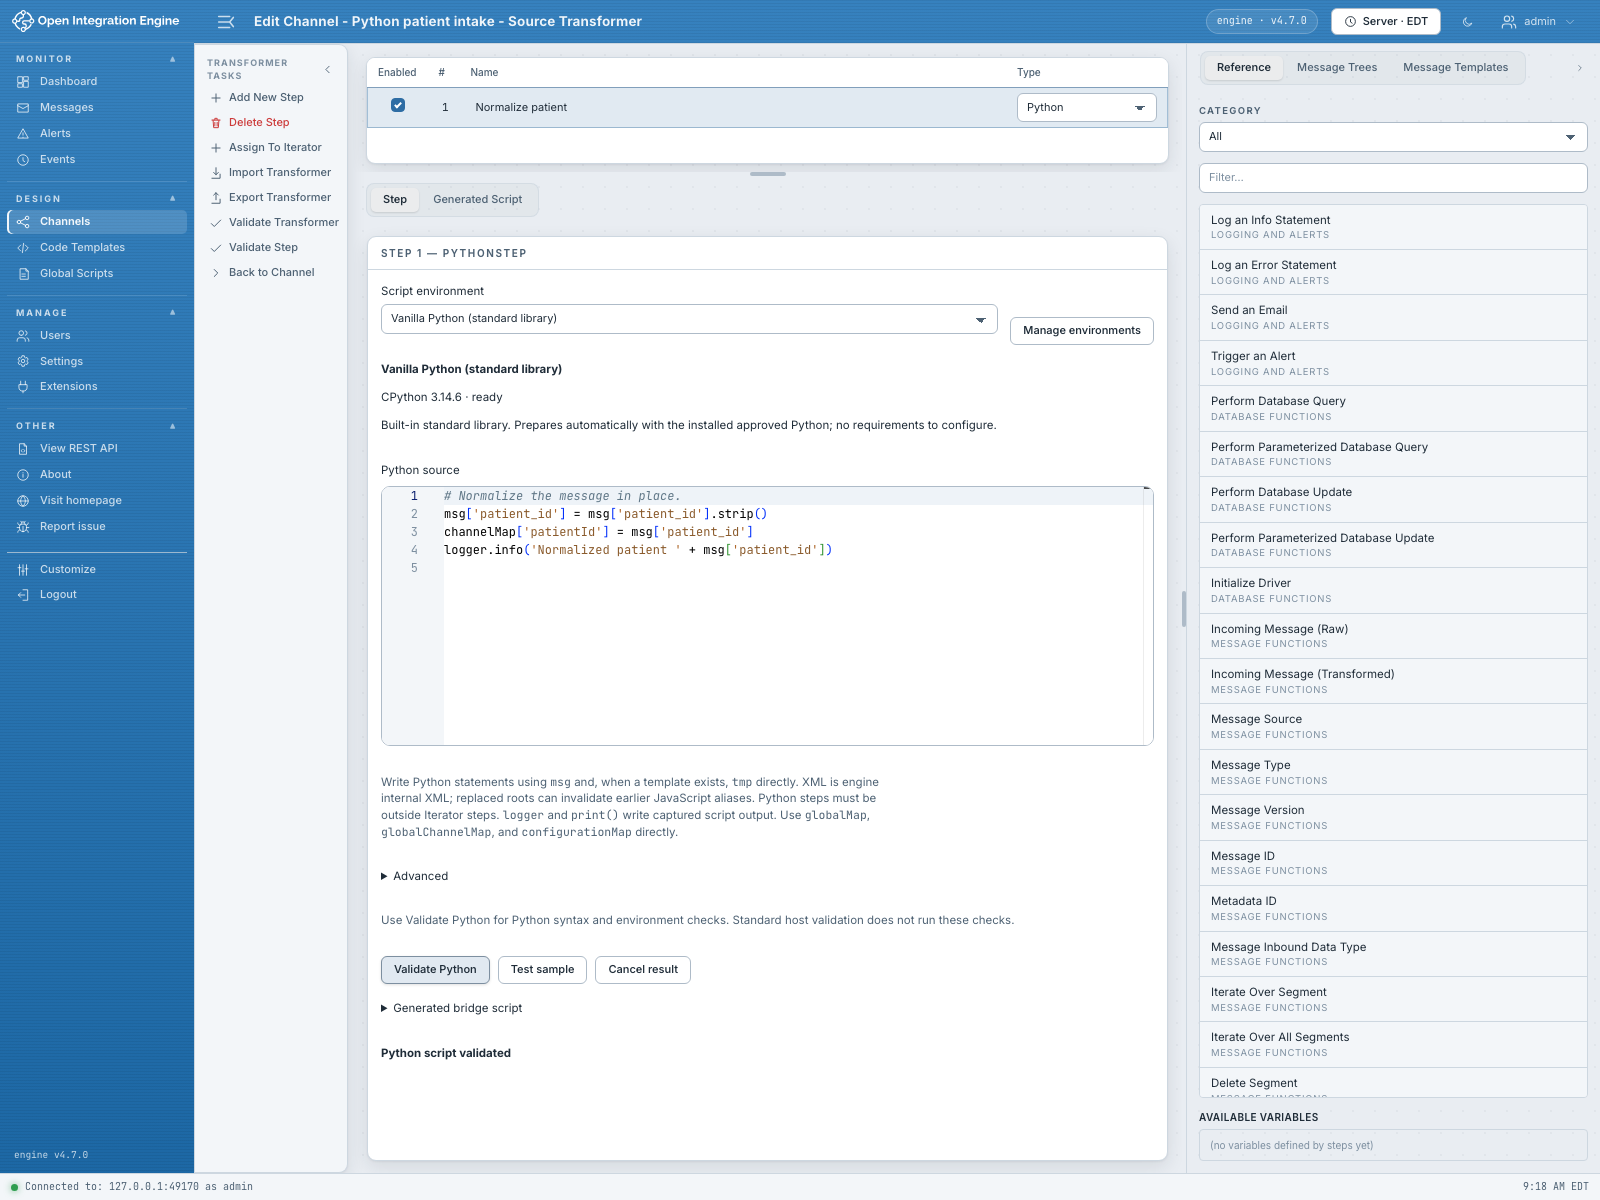
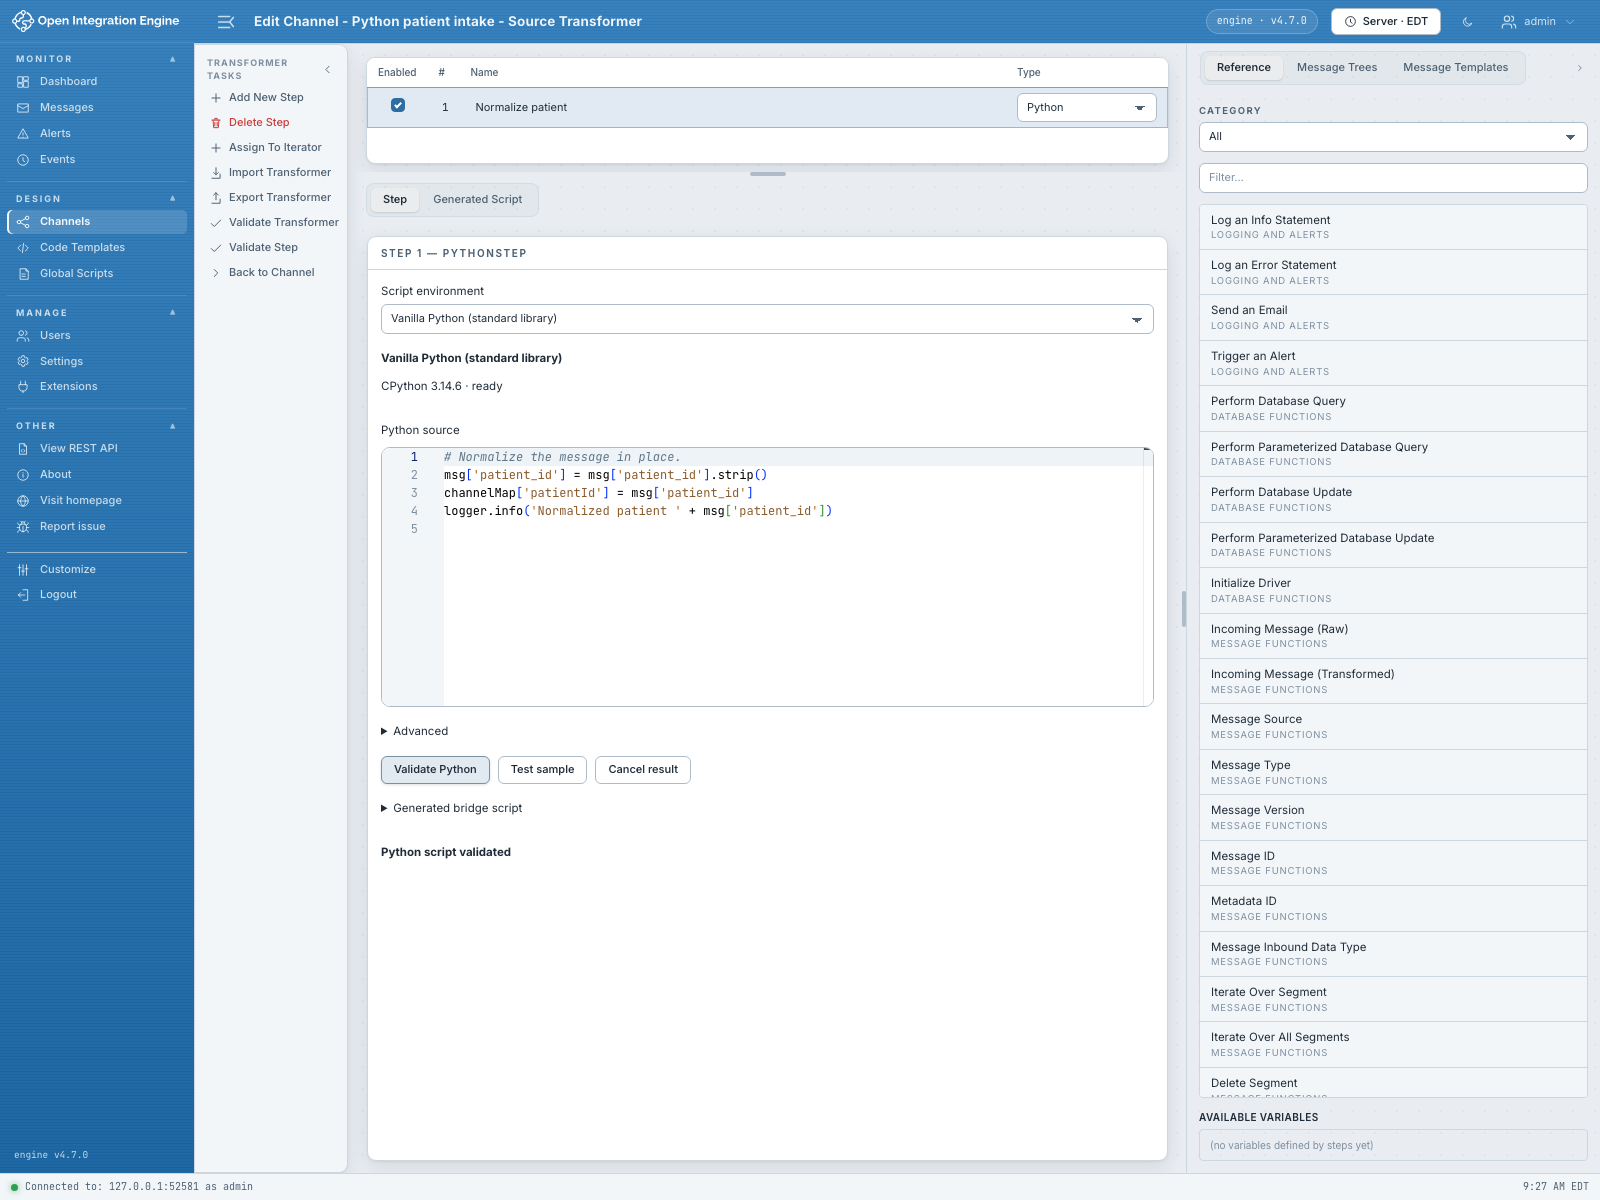
fix: simplify Python editors and keep management in settings

diff --git a/package/webadmin/web/plugin.jsx b/package/webadmin/web/plugin.jsx
@@ -82,29 +82,12 @@ function ScriptPanel({ element, properties, onChange, role: explicitRole, channe
         if(test){pendingTest.current=false;setTestBusy(false);}if(action.isCurrent()&&currentSession())setResult(value);
     }
     return <div ref={panel} className="flex flex-col gap-4">
-        <div className="flex flex-wrap items-end gap-3"><label className="field" style={{flex:"1 1 220px",minWidth:0}}>Script environment<select style={{width:"100%",minWidth:0}} value={subject.environmentProfileId||''} disabled={!profiles} onChange={e=>{subject.environmentNameHint=profiles.profiles.find(p=>p.id===e.target.value)?.name||'';change('environmentProfileId',e.target.value);}}><option value="">{profiles?'Select a script environment':'Loading environments…'}</option>{subject.environmentProfileId&&!selected&&<option value={subject.environmentProfileId}>Unresolved: {subject.environmentNameHint||subject.environmentProfileId}</option>}{profiles?.profiles.filter(p=>!p.archived&&(p.id!==DEFAULT_PROFILE_ID||p===selectedEnvironment({environmentProfileId:DEFAULT_PROFILE_ID},profiles))).map(p=><option key={p.id} value={p.id}>{p.name}</option>)}</select></label><button type="button" className="btn" onClick={()=>{platform.store.setState('pythonReturnPath',path);platform.router.navigate('/settings?tab=Script%20Environments');}}>Manage environments</button></div>
-        {error&&<p role="alert">{error} Your script draft is preserved.</p>}{selected&&<div><strong>{selected.name}</strong><p>{stateLabel(selected)}{selected.readiness?.message?`: ${selected.readiness.message}`:''}</p>{selected.builtInDefault?<p>Built-in standard library. Prepares automatically with the installed approved Python; no requirements to configure.</p>:<p>{selected.description}</p>}{selected.redeployNeeded&&<p>Redeploy consuming channels to activate this environment revision.</p>}</div>}
+        <div className="flex flex-wrap items-end gap-3"><label className="field" style={{flex:"1 1 220px",minWidth:0}}>Script environment<select style={{width:"100%",minWidth:0}} value={subject.environmentProfileId||''} disabled={!profiles} onChange={e=>{subject.environmentNameHint=profiles.profiles.find(p=>p.id===e.target.value)?.name||'';change('environmentProfileId',e.target.value);}}><option value="">{profiles?'Select a script environment':'Loading environments…'}</option>{subject.environmentProfileId&&!selected&&<option value={subject.environmentProfileId}>Unresolved: {subject.environmentNameHint||subject.environmentProfileId}</option>}{profiles?.profiles.filter(p=>!p.archived&&(p.id!==DEFAULT_PROFILE_ID||p===selectedEnvironment({environmentProfileId:DEFAULT_PROFILE_ID},profiles))).map(p=><option key={p.id} value={p.id}>{p.name}</option>)}</select></label></div>
+        {error&&<p role="alert">{error} Your script draft is preserved.</p>}{selected&&<div><strong>{selected.name}</strong><p>{stateLabel(selected)}{selected.readiness?.message?`: ${selected.readiness.message}`:''}</p>{selected.redeployNeeded&&<p>Redeploy consuming channels to activate this environment revision.</p>}</div>}
         {subject.environmentProfileId&&!selected&&profiles&&<p role="alert">{subject.environmentProfileId===DEFAULT_PROFILE_ID?(profiles.defaultProfileMessage||'The built-in Python environment is unavailable on this engine. Open Script Environments for details.'):'This environment is unresolved. Restore its profile or select another before deploying.'}</p>}
         {isStep&&!inferred.role&&!isRule&&<div className="flex flex-wrap gap-3"><label className="field">Validation role<select aria-label="Validation role" value={role} onChange={e=>{generation.current.invalidate();setChosenRole(e.target.value);setResult(null);}}><option value="">Select where this step runs</option><option value="source-transformer">Source transformer</option><option value="destination-transformer">Destination transformer</option><option value="response-transformer">Response transformer</option></select></label>{role&&role!=='source-transformer'&&role!=='source-filter'&&<label className="field">Validation connector<select aria-label="Validation connector" value={chosenConnector} onChange={e=>{generation.current.invalidate();setChosenConnector(e.target.value);setResult(null);}}><option value="">Select a destination</option>{destinations.map(v=><option key={v.metaDataId} value={v.metaDataId}>{v.name||`Destination ${v.metaDataId}`}</option>)}</select></label>}</div>}
         <PythonEditor value={subject.pythonScript||''} onChange={v=>change('pythonScript',v)} role={role} channelId={activeChannel?.id} profile={selected} catalog={profiles}/>
-        <p className="text-text-dim" style={{maxWidth:"72ch"}}>
-            {isRule ? <>Return exactly <code>True</code> or <code>False</code>; falling through accepts the message. Bare <code>return</code> and <code>return None</code> are invalid. Use <code>not</code> to negate a predicate. Stock AND/OR order and short circuit apply. Documents and maps match transformer steps. Python rules must be outside Iterator rules.</> : isStep ? <>
-                Write Python statements using <code>msg</code> and, when a template exists, <code>tmp</code> directly.
-                {' '}XML is engine internal XML; replaced roots can invalidate earlier JavaScript aliases.
-                {' '}Python steps must be outside Iterator steps.
-            </> : role==='writer' ? <>
-                Use <code>payload</code> directly and return None, a string, a Status, or a Response.
-                {' '}Engine retries apply. Use target-supported idempotency for external writes.
-            </> : <>
-                Use writable <code>sourceMap</code> for invocation metadata, including <code>sourceMap.get('pollId')</code>, and return None, a Message, or a list of Message objects.
-                {' '}Its entries become defaults for every returned message; <code>Message.source_map</code> entries override them per message.
-                {' '}External acknowledgments are the script’s responsibility.
-            </>}
-            {' '}<code>logger</code> and <code>print()</code> write captured script output.
-            {' '}Use <code>globalMap</code>, <code>globalChannelMap</code>, and <code>configurationMap</code> directly.
-        </p>
         <details><summary>Advanced</summary><label className="field mt-3">Invocation timeout (milliseconds)<input type="number" min="100" step="1" value={subject.timeoutMillis} onChange={e=>change('timeoutMillis',Number(e.target.value))}/></label></details>
-        <p className="text-text-dim">Use Validate Python for Python syntax and environment checks. Standard host validation does not run these checks.</p>
         <div className="flex flex-wrap gap-2"><button type="button" className="btn" disabled={!can(permissions.validate)} onClick={()=>run(false)}>Validate Python</button><button type="button" className="btn" disabled={!can(permissions.test)} onClick={()=>setShowTest(!showTest)}>Test sample</button><button type="button" className="btn" onClick={()=>{generation.current.invalidate();setResult({status:'cancelled',diagnostics:[{message:'Result cancelled. External work may still complete.'}]});}}>Cancel result</button></div>
         {showTest&&<div><label className="field">Synthetic sample context (JSON)<textarea className="font-mono" rows="8" value={sample} onChange={e=>{generation.current.invalidate();setSample(e.target.value);setResult(null);}}/></label><p>{isStep?'Transformer tests require message data in this JSON context.':'Leave empty to send an empty context.'} Test can perform external I/O. It does not admit engine messages or modify live maps.</p><button type="button" className="btn" disabled={!can(permissions.test)||testBusy} onClick={()=>run(true)}>Run sample once</button></div>}
         {isStep&&<details><summary>Generated bridge script</summary><OutputPanel label="Generated bridge script">{generateScript(subject)}</OutputPanel></details>}
@@ -160,7 +143,7 @@ function EnvironmentSettings({setSave,markDirty,markClean,setTasks}) {
     async function exportFile(){if(!can(permissions.export))return;const current=capture();try{const v=await request(guardApi(api,current),'get','/profiles/export');if(current())platform.ui.downloadFile('python-environments.json',JSON.stringify(v,null,2),'application/json');}catch(e){if(current())setError(errorText(e));}}
     const editable=ready&&!!runtime&&!busy&&!draft?.builtInDefault&&can(draft?.id?permissions.manage:permissions.create);const p=draft;
     return <div className="flex flex-col gap-4"><div><h2 className="text-lg font-semibold">Script Environments</h2><p className="text-text-dim" style={{maxWidth:"72ch"}}>The built-in standard library prepares automatically. Add an environment when a script needs extra packages. Saving or preparing a profile leaves active deployments on their current environment until redeployment. Exports contain custom environments; the built-in default is supplied by each installation.</p></div>{error&&<p role="alert" className="whitespace-pre-wrap">{error}</p>}{list?.defaultProfileMessage&&<p role="alert">{list.defaultProfileMessage}</p>}
-        <div className="flex flex-wrap gap-2"><button type="button" className="btn" disabled={!ready||!runtime||busy||!can(permissions.create)} onClick={()=>choose(newEnvironment(runtime,list.registryEpoch))}>Add environment</button><button type="button" className="btn" disabled={busy||dirty.current} onClick={load}>Refresh list</button><button type="button" className="btn" disabled={busy||!list||!can(permissions.import)} onClick={importFile}>Import</button><button type="button" className="btn" disabled={!list||!can(permissions.export)} onClick={exportFile}>Export</button>{platform.store.getState('pythonReturnPath')&&<button type="button" className="btn" onClick={()=>platform.router.navigate(platform.store.getState('pythonReturnPath'))}>Back to channel editor</button>}</div>
+        <div className="flex flex-wrap gap-2"><button type="button" className="btn" disabled={!ready||!runtime||busy||!can(permissions.create)} onClick={()=>choose(newEnvironment(runtime,list.registryEpoch))}>Add environment</button><button type="button" className="btn" disabled={busy||dirty.current} onClick={load}>Refresh list</button><button type="button" className="btn" disabled={busy||!list||!can(permissions.import)} onClick={importFile}>Import</button><button type="button" className="btn" disabled={!list||!can(permissions.export)} onClick={exportFile}>Export</button></div>
         {!list?<p role="status">Loading script environments…</p>:<div className="flex flex-wrap gap-6 items-start"><div style={{flex:"1 1 280px",minWidth:0,width:"100%"}}><div className="dt-wrap"><table className="dt"><thead><tr><th>Name</th><th>Runtime</th><th>Preparation</th><th>Usage</th></tr></thead><tbody>{list.profiles.filter(v=>!v.archived).map(v=><tr key={v.id}><td><button type="button" className="btn" onClick={()=>choose(v)}>{v.name}{v.builtInDefault?' · Built-in':''}</button></td><td>{runtime?.runtimes.find(r=>r.id===v.runtimeId)?runtimeLabel(runtime.runtimes.find(r=>r.id===v.runtimeId)):v.runtimeId}</td><td>{stateLabel(v)}</td><td>{v.savedReferenceCount} saved · {v.deployedReferenceCount} deployed</td></tr>)}</tbody></table></div>{!list.profiles.length&&<p>Add an environment and select an approved interpreter. Leave requirements empty to use Python’s standard library.</p>}</div>
             {p&&<div className="flex flex-col gap-3" style={{flex:"1 1 300px",minWidth:0,width:"100%"}}>
                 <label className="field">Name<input value={p.name||''} disabled={!editable} onChange={e=>change('name',e.target.value)}/></label>

diff --git a/package/webadmin/web/code-template-panel.jsx b/package/webadmin/web/code-template-panel.jsx
@@ -94,27 +94,18 @@ function TemplatePanel({ template, properties, onChange, readOnly }) {
             </div>
             <div className="flex flex-wrap items-center gap-2">
                 <button type="button" className="btn" onClick={() => setRefresh(value => value + 1)}>Refresh environments</button>
-                <button type="button" className="btn" onClick={() => { platform.store.setState('pythonReturnPath', platform.router.currentPath()); platform.router.navigate('/settings?tab=Script%20Environments'); }}>Manage environments</button>
             </div>
         </fieldset>
         {error && <p role="alert">{error} Your function draft is preserved.</p>}
         {selected && <p className="text-text-dim">{selected.name} · {environmentState(selected)}{selected.readiness?.message ? `: ${selected.readiness.message}` : ''}</p>}
         {profiles && properties.environmentProfileId && !selected && <p role="alert">This script environment is unavailable. Select an available environment before deploying.</p>}
         <PythonEditor value={properties.pythonScript || ''} onChange={value => change('pythonScript', value)} readOnly={readOnly} role="code-template" profile={selected} catalog={profiles}/>
-        <p className="text-text-dim" style={{ maxWidth: '72ch' }}>
-            Read <code>arguments</code> directly and <code>return</code> a JSON-compatible value.
-            {' '}<code>logger</code> and <code>print()</code> write captured script output.
-            {' '}The function name exposes this template to JavaScript in source, destination, and response transformers.
-            {' '}Assign the returned value where it is needed.
-            {' '}The calling message’s maps, <code>globalMap</code>, <code>globalChannelMap</code>, and <code>configurationMap</code> are available directly.
-        </p>
         <details>
             <summary>Advanced</summary>
             <fieldset disabled={readOnly} className="min-w-0" style={{ border: 0, margin: 0, padding: 0 }}>
                 <label className="field mt-3">Invocation timeout (milliseconds)<input type="number" min="100" step="1" value={properties.timeoutMillis} onChange={event => change('timeoutMillis', Number(event.target.value))}/></label>
             </fieldset>
         </details>
-        <p className="text-text-dim" style={{ maxWidth: '72ch' }}>Saving preserves the draft. Redeploy consuming channels to use changed Python source or a newly prepared environment.</p>
         {!readOnly && <div><button type="button" className="btn" disabled={busy || !canValidate()} onClick={validate}>{busy ? 'Validating Python…' : 'Validate Python'}</button></div>}
         {result && <div role="status" aria-live="polite">
             <strong>{result.status === 'valid' ? 'Python function validated' : result.status === 'invalid' ? 'Python function needs attention' : 'Python validation unavailable'}</strong>
